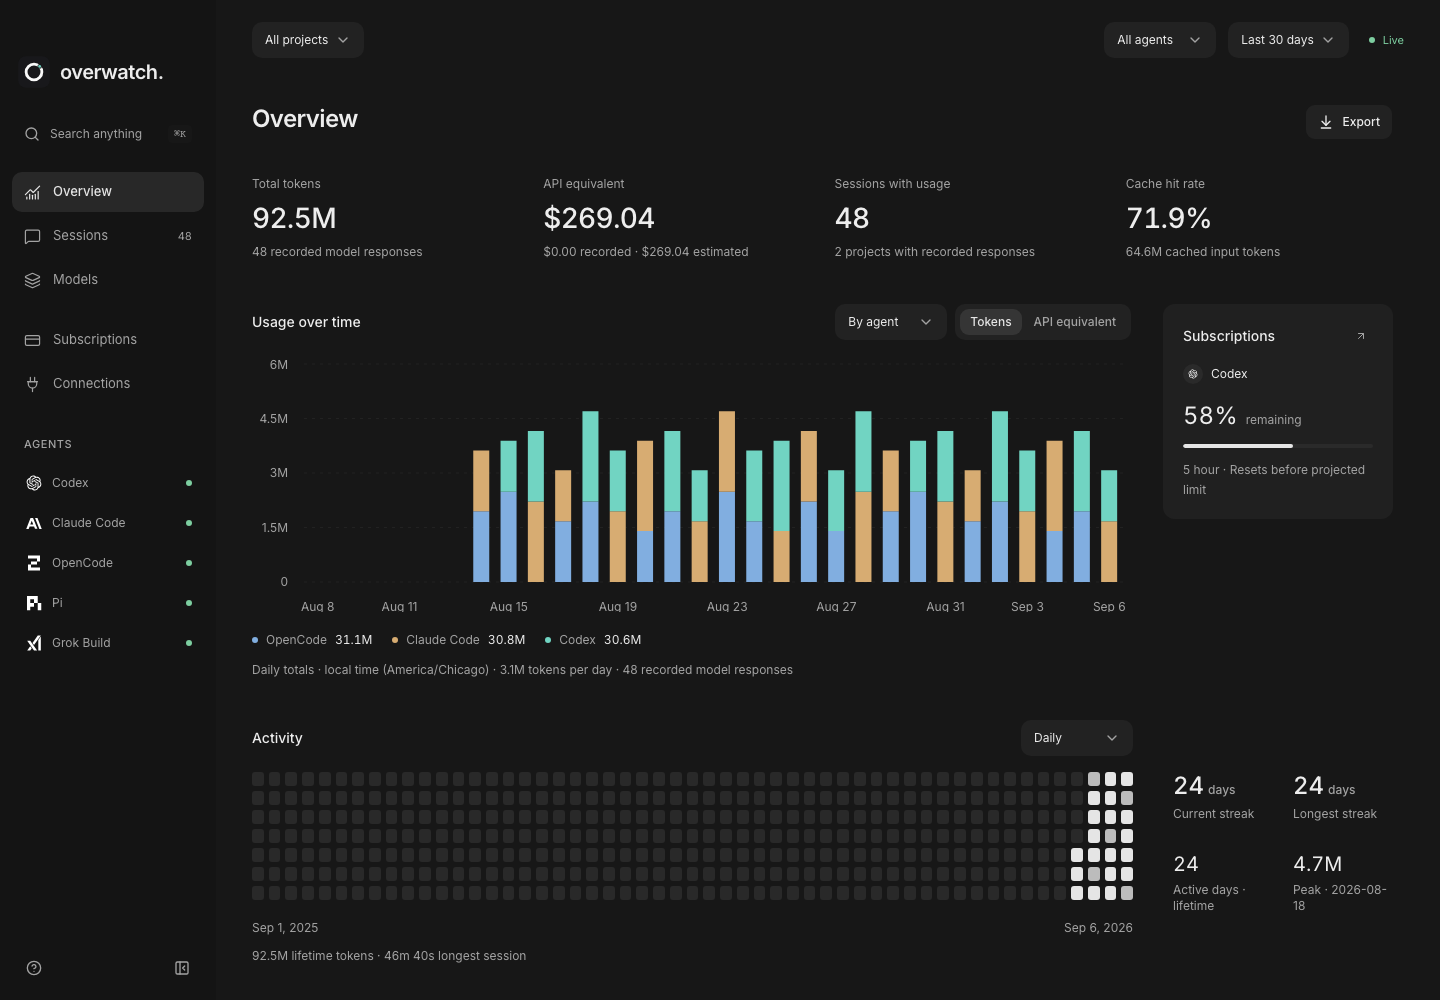
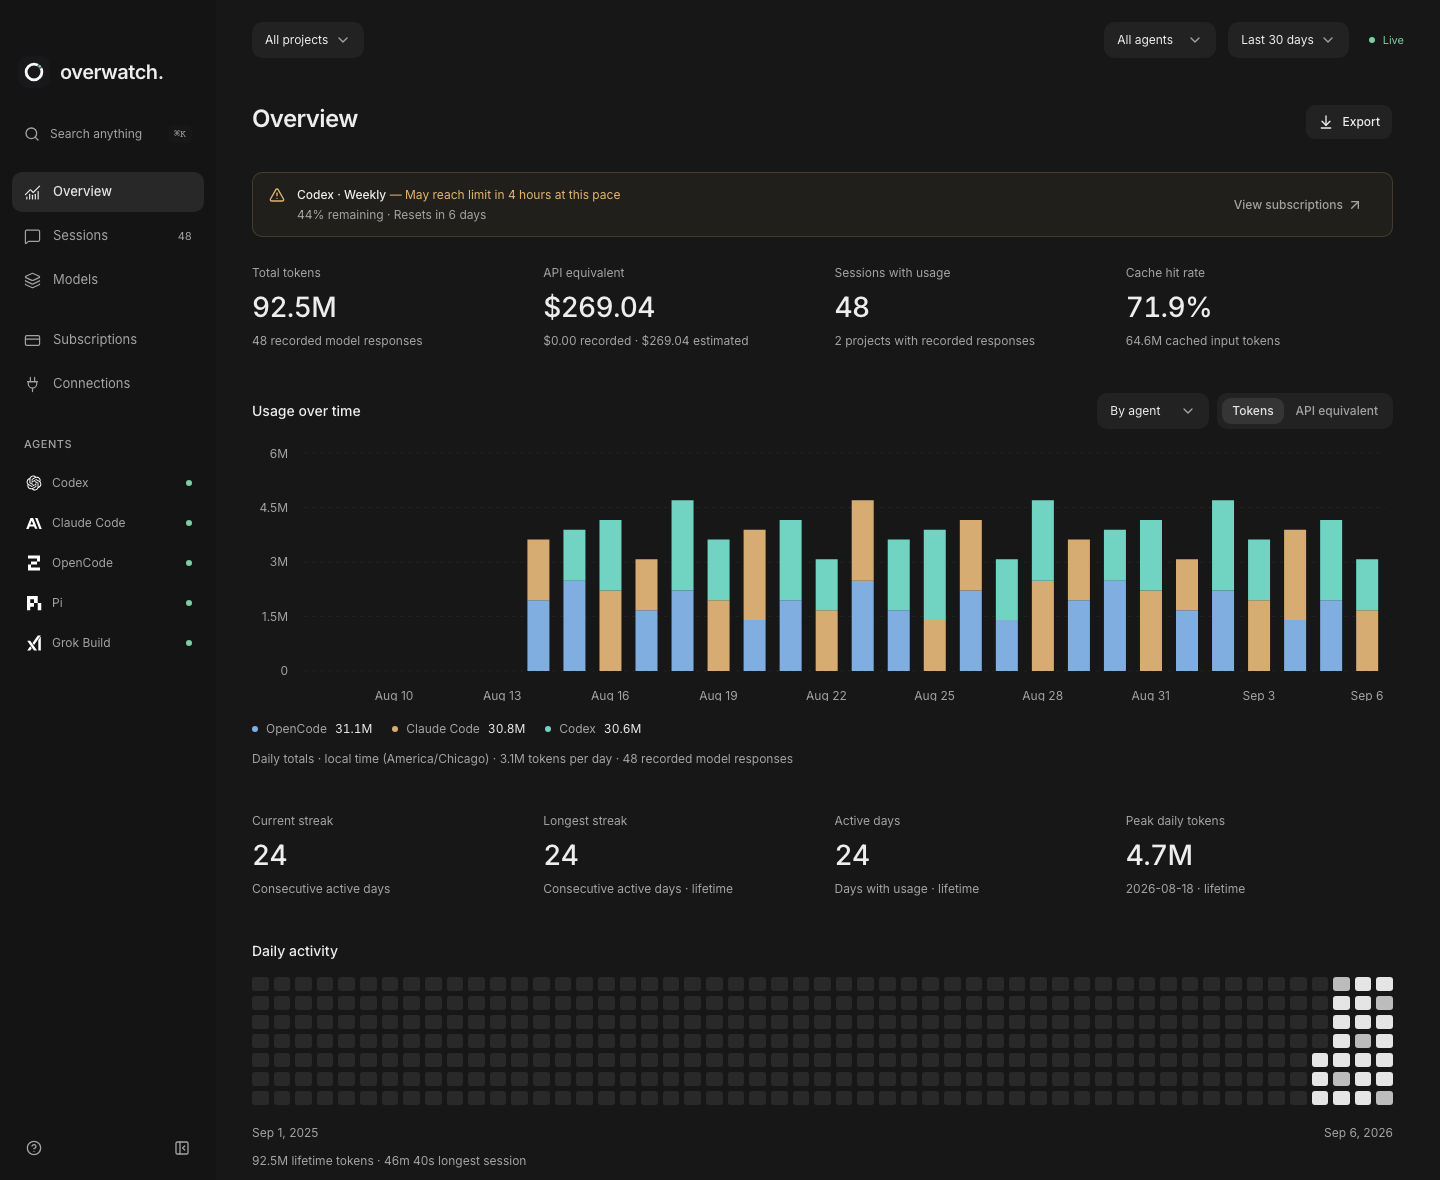
fix(overview): align daily activity stats above heatmap

diff --git a/src/pages/overview.tsx b/src/pages/overview.tsx
@@ -243,34 +243,30 @@ export default function Overview({
             />
           </div>
           <UsageOverTime stats={stats} start={start} now={now} range={range} />
-          <div className="my-10 grid grid-cols-[minmax(0,1fr)_220px] gap-10 max-[1100px]:grid-cols-1">
-            <ActivityHeatmap lifetime={lifetime} sessions={sessions} now={now} openDay={openDay} />
-            <div className="grid grid-cols-2 gap-x-5 gap-y-7 self-center">
-              <div>
-                <p className="text-2xl font-medium tabular-nums">
-                  {streak.current}
-                  <span className="ml-1 text-xs text-muted-foreground">days</span>
-                </p>
-                <p className="mt-1 text-xs text-muted-foreground">Current streak</p>
-              </div>
-              <div>
-                <p className="text-2xl font-medium tabular-nums">
-                  {streak.longest}
-                  <span className="ml-1 text-xs text-muted-foreground">days</span>
-                </p>
-                <p className="mt-1 text-xs text-muted-foreground">Longest streak</p>
-              </div>
-              <div>
-                <p className="text-xl tabular-nums">{streak.activeDays}</p>
-                <p className="mt-1 text-xs text-muted-foreground">Active days · lifetime</p>
-              </div>
-              <div>
-                <p className="text-xl tabular-nums">{compact(streak.peak?.total ?? 0)}</p>
-                <p className="mt-1 text-xs text-muted-foreground">
-                  Peak · {streak.peak?.day ?? "—"}
-                </p>
-              </div>
+          <div className="my-10">
+            <div className="mb-10 grid grid-cols-2 gap-6 xl:grid-cols-4">
+              <Metric
+                label="Current streak"
+                value={integer(streak.current)}
+                detail="Consecutive active days"
+              />
+              <Metric
+                label="Longest streak"
+                value={integer(streak.longest)}
+                detail="Consecutive active days · lifetime"
+              />
+              <Metric
+                label="Active days"
+                value={integer(streak.activeDays)}
+                detail="Days with usage · lifetime"
+              />
+              <Metric
+                label="Peak daily tokens"
+                value={compact(streak.peak?.total ?? 0)}
+                detail={`${streak.peak?.day ?? "No activity"} · lifetime`}
+              />
             </div>
+            <ActivityHeatmap lifetime={lifetime} sessions={sessions} now={now} openDay={openDay} />
           </div>
           <div className="mb-10 grid grid-cols-1 gap-10 lg:grid-cols-2 lg:gap-12">
             <Section

diff --git a/src/lib/components/activity-heatmap.tsx b/src/lib/components/activity-heatmap.tsx
@@ -30,7 +30,7 @@ export function ActivityHeatmap({
   }));
   const maxHeat = Math.max(1, ...heatValues.map((value) => value.amount));
   return (
-    <Section title="Activity">
+    <Section title="Daily activity">
       <Tooltip.Provider delay={100}>
         <div className="overflow-x-auto pb-2">
           <div

diff --git a/README.md b/README.md
@@ -5,9 +5,9 @@
 
 A desktop app for exploring coding-agent sessions, token usage, model costs, and subscription allowances. Histories stay on your machine.
 
-| Overview                                                                                                                                         | Sessions                                                                                                                                      |
-| ------------------------------------------------------------------------------------------------------------------------------------------------ | --------------------------------------------------------------------------------------------------------------------------------------------- |
-| [![Overview showing token usage, costs, subscription allowance, and activity history](.github/images/overview.png)](.github/images/overview.png) | [![Session detail showing conversation metrics, an event timeline, and transcript](.github/images/sessions.png)](.github/images/sessions.png) |
+| Overview                                                                                                                                      | Sessions                                                                                                                                      |
+| --------------------------------------------------------------------------------------------------------------------------------------------- | --------------------------------------------------------------------------------------------------------------------------------------------- |
+| [![Overview showing token usage, costs, subscription warnings, and daily activity](.github/images/overview.png)](.github/images/overview.png) | [![Session detail showing conversation metrics, an event timeline, and transcript](.github/images/sessions.png)](.github/images/sessions.png) |
 
 _Sample data. Click either screenshot to view it at full size._
 
